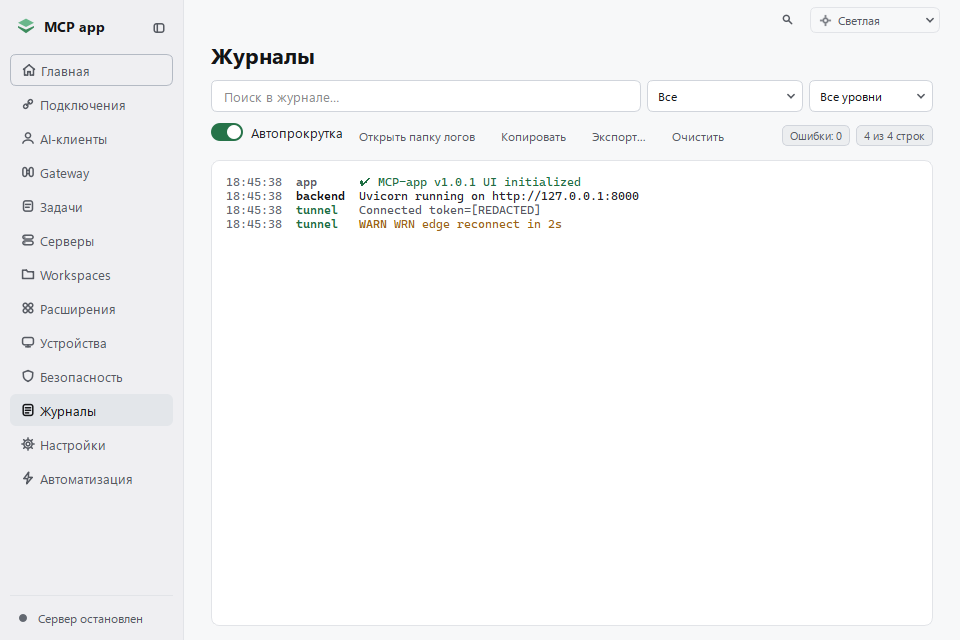
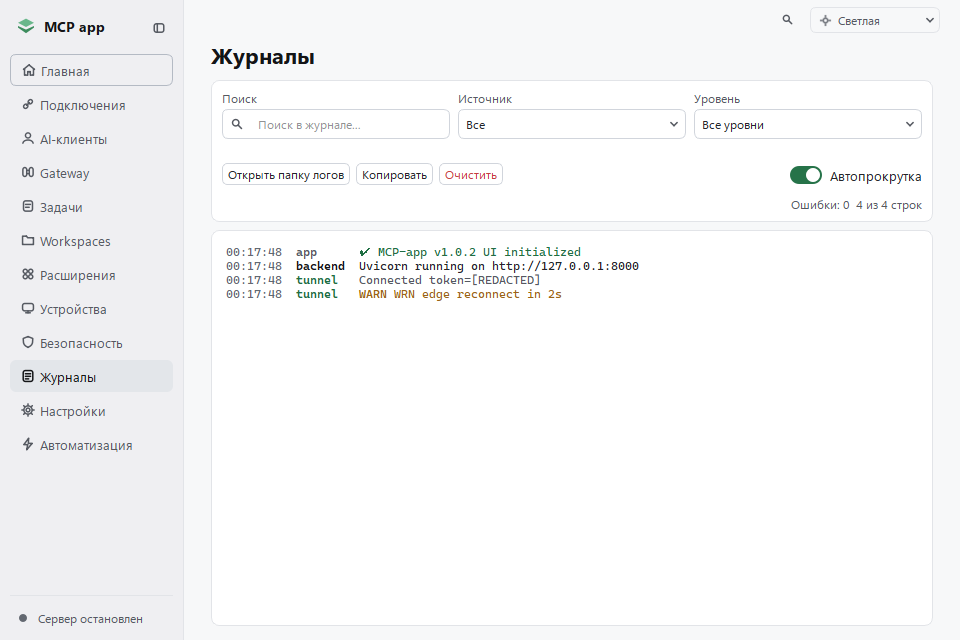
docs(n03): update Workspaces, Server Manager, tool reference, UI docs, and PROGRESS

diff --git a/PROGRESS.md b/PROGRESS.md
@@ -770,3 +770,36 @@
 - Production auto-install/boot-recovery BLOCKED; installed без доверенного rollback BLOCKED. Отдельная приёмка signing, криптографической проверки восстанавливаемого portable-пакета и power-loss recovery обязательна до включения. См. docs/auto-update.md.
 - P2 ResourceWarning mcp_audit.log остаётся. Другие NOT_RUN не переименованы в PASS.
 - N03: feat/n03-workspace-servers; текущий промт ANTIGRAVITY_PROMPT.md; реализация не начата. Версия 1.0.2, PR #32 без изменений, релиз не опубликован.
+
+## N03 — Интеграция Server Manager в Workspaces (`VERIFIED`, ожидает независимой приёмки ChatGPT / merge PR, 2026-11-28)
+- **Базовый коммит**: подготовительный `9c4363e` на ветке `feat/n03-workspace-servers` (базовый merge-коммит `main`: `4b9bedb`, PR #38). Версия `1.0.2` не менялась, `app/updater/trust.py` и N02 production gates (`PRODUCTION_TRUST_ROOTS = ()`, `PRODUCTION_PUBLISHER_THUMBPRINTS = ()`, auto-install/boot-recovery `BLOCKED`) не ослаблены и не затронуты.
+- **Архитектура и единый источник истины**:
+  - Сохранены единый `ServerConfigStore` (`%APPDATA%\MCPApp\servers\managed_servers.json`), `ServerManager` (`backend/servers/manager.py`), стабильные ID профилей серверов, `cwd`, `argv`, `env`, DPAPI `SecretStore`-ссылки (`secret://servers/...`), ACL, `min_profile`, `allowed_clients`, `depends_on`, readiness probes, `controlled`/`independent` семантика и OAuth-инструменты.
+  - Создан координатор [`backend/workspaces/server_links.py`](backend/workspaces/server_links.py) (`WorkspaceServerCoordinator`, `WorkspaceServersSnapshot`), использующий существующее поле `WorkspaceProfile.linked_servers` (схема v2, дедупликация, `SERVER_LINK_RE`) без создания параллельного реестра или копирования секретов. Поддержаны связи `1:N` (один проект → несколько серверов) и `N:1` (один сервер в нескольких проектах).
+  - В [`app/core/atomic_io.py`](app/core/atomic_io.py) добавлена межпроцессная и реентерабельная межпоточная блокировка `cross_process_lock`, применённая во всех мутациях [`backend/workspaces/store.py`](backend/workspaces/store.py) и [`backend/servers/store.py`](backend/servers/store.py) (`load_profiles(strict=True)` перед `upsert_profile`/`delete_profile`).
+- **Миграция v1→v2 и сохранность данных**:
+  - `WorkspaceServerCoordinator.ensure_migrated()` идемпотентно мигрирует legacy v1-конфиги серверов и v1-реестр Workspaces в v2 с сохранением `.json.v1.bak` и user-private ACL, **никогда не угадывает** привязки по `cwd` или имени, не создаёт фиктивный общий workspace и не запускает/не останавливает процессы при миграции.
+  - Повреждённый JSON вызывает `ValueError` fail-closed без перезаписи файлов на диске; в GUI выводится предупреждающий баннер `corrupt_banner`.
+  - Отвязка сервера (`unlink_server`) и удаление workspace (`delete_workspace_preserving_servers`) не останавливают и не удаляют серверы; переименование ID сервера (`rename_server` / `RenameServerDialog`) разрешено только для остановленного сервера и синхронно переносит `SecretStore`-ключи, `depends_on` и `WorkspaceProfile.linked_servers`.
+- **Матрица прав (`Global OAuth ∩ Workspace ∩ Server ∩ Task`) и задачи**:
+  - При `workspace_authorizer` на `ServerManager` и `_server_auth_rechecker` на `backend/server.py` вызов к привязанному серверу проверяет пересечение прав клиента во всех задействованных слоях:
+    - Явный `workspace_id` на `server_list`/`server_start`/`server_stop`/`server_restart`/`server_status`/`server_logs`/`server_metrics`/`server_health`: сервер обязан входить в `linked_servers` этого проекта, а клиент — иметь `read` (для чтения) или `read + execute` (для `start`/`stop`/`restart`), помимо `min_profile`/`allowed_clients` сервера.
+    - Прямой вызов без `workspace_id` (`""`): для непривязанного сервера работают глобальный OAuth + права `ServerProfile`; для привязанного сервера требуется допуск хотя бы в одном привязанном `WorkspaceProfile`.
+    - Confused-deputy защита при запуске `depends_on`: перед запуском любого процесса `ServerManager.start_server` (`_authorize_start_order`) проверяет права вызывающего клиента на все зависимости и их привязанные проекты.
+  - [`backend/tasks/store.py`](backend/tasks/store.py) дополнен `create_running_task()` (исключает гонку с асинхронной очередью `TaskManager._dispatch_loop`), а [`backend/workspaces/manager.py`](backend/workspaces/manager.py) записывает реальные `TaskRecord`, артефакты `result.json`, `WorkspaceProfile.linked_tasks` и возвращает `task_id` в `workspace_run_task` + `linked_servers_status`/`missing_linked_servers` в `workspace_info`.
+- **Консолидация UI и удаление вкладки «Серверы»**:
+  - [`app/ui/pages/workspaces_page.py`](app/ui/pages/workspaces_page.py) объединяет `collection_tabs` (**Проекты** + **Непривязанные серверы**) и 5 вкладок деталей (**Файлы проекта**, **Статус Git, поиск и вывод задач**, **Серверы**, **Логи сервера**, **Метрики и здоровье**), неблокирующие фоновые операции (`start`/`stop`/`restart`/`health`/задачи проекта + `wait_for_pending_ops()`), отметку отсутствующих ссылок (`missing in registry`) с безопасной отвязкой и переименование профиля сервера.
+  - Общие диалоги и рендер-таблицы вынесены без дублирования в [`app/ui/pages/servers_page.py`](app/ui/pages/servers_page.py) (`ServerProfileDialog`, `TemplateWizardDialog` с `default_cwd`, `RenameServerDialog`, `LinkServerDialog`, `populate_server_rows`, `format_server_details`, `fetch_server_logs_text`).
+  - В [`app/ui/main_window.py`](app/ui/main_window.py), [`app/ui/components/sidebar.py`](app/ui/components/sidebar.py), [`app/ui/pages/__init__.py`](app/ui/pages/__init__.py), [`app/gui.py`](app/gui.py) и [`app/selftest.py`](app/selftest.py) удалён отдельный пункт навигации `"servers"` (12 разделов, горячие клавиши `Ctrl+1..Ctrl+9`), добавлены редиректы `_LEGACY_PAGE_REDIRECTS` (`"servers"`/`"server_manager"`/`"managed_servers"` → `"workspaces"`) и маршрутизация Command Palette.
+  - Обновлены локализации RU/EN (`813` ключей с полным паритетом в [`app/ui/i18n.py`](app/ui/i18n.py)), документация (`docs/workspaces.md`, `docs/server-manager.md`, `docs/tool-reference.md`, `docs/ui-design-system.md`, `README.md`, `ROADMAP.md`) и скриншоты (`docs/screenshots/workspaces-dark.png`, `workspaces-light.png` при `1366×768`).
+- **Локальные проверки N03 (Python `3.13.15`, `QT_QPA_PLATFORM=offscreen`)**:
+  - TDD: backend [`tests/unit/test_n03_workspace_servers_migration_and_permissions.py`](tests/unit/test_n03_workspace_servers_migration_and_permissions.py) (`RED` → `GREEN`: **5/5 PASS**), E2E/GUI [`tests/integration/test_n03_workspace_servers_e2e.py`](tests/integration/test_n03_workspace_servers_e2e.py) (`RED` → `GREEN`: **3/3 PASS**, `3.979s`).
+  - `compileall -q app backend tests tools`: **PASS**.
+  - `ruff check app backend tests tools`: **PASS** (`0` ошибок).
+  - `mypy` (`win32`, 84 файла) и `mypy --platform linux` (`84` файла): **PASS** (`0` ошибок).
+  - `tools/check_licenses.py`: **PASS** (`38/38` зависимостей).
+  - `pip_audit -r requirements.lock --no-deps --disable-pip`: **PASS** (`No known vulnerabilities found`).
+  - Полный прогон тестов: `tests/unit` **257/257 PASS** (`20.506s`), `tests/integration` **100/100 PASS** (`57.055s`), `tests/e2e` **2/2 PASS** (`8.332s`) — итого **359/359 PASS**.
+  - `tools/capture_ui_screenshots.py`: **PASS** (`DPI check scale=1.0..2.0: OK`, 15 скриншотов переснято).
[1 lines of base64/hex data omitted]
+- **Остающиеся `BLOCKED` / `NOT_RUN`**: локальный `ISCC.exe` (**NOT_RUN** — проверяется в CI `windows-package`); живой внешний туннельный smoke-тест **NOT_RUN** в рамках N03; N02 production gates (`PRODUCTION_TRUST_ROOTS = ()`, `PRODUCTION_PUBLISHER_THUMBPRINTS = ()`, auto-install/boot-recovery **BLOCKED** `MISSING_TRUST_ROOTS` / `NO_ROLLBACK_CONTRACT`) сохранены без изменений.

diff --git a/docs/tool-reference.md b/docs/tool-reference.md
@@ -9,8 +9,8 @@ All built-in MCP tools are centrally defined in `backend/tool_registry.py` (`DEF
 | **OAuth Exec** | `oauth_ssh_command` | `allowlist` | Allowlist enforces exact host + command; `full` permits arbitrary SSH commands on approved targets. |
 | **OAuth Exec** | `oauth_managed_server` | `full` | Direct legacy managed-server lifecycle control. |
 | **Tasks** | `task_start`, `task_status`, `task_list`, `task_output`, `task_result`, `task_cancel`, `task_restart`, `task_artifacts` | `allowlist` | Async job execution with profile-aware default timeouts (`15s`/`12s` in `allowlist`, `60s` in `full`), 13 structured `TASK_*` MCP errors, spool ring buffers, disk quotas, idempotency keys, inactive purge, and live OAuth revoke checks. |
-| **Servers** | `server_list`, `server_start`, `server_stop`, `server_restart`, `server_status`, `server_logs`, `server_metrics`, `server_health` | `allowlist` | Local service manager with templates (`FastAPI`, `Flask`, `Node`, `Docker`), dependency DAGs, readiness probes, and redacted logs. |
-| **Workspaces** | `workspace_list`, `workspace_info`, `workspace_tree`, `workspace_read_file`, `workspace_write_file`, `workspace_search`, `workspace_apply_patch`, `workspace_move_file`, `workspace_delete_file`, `workspace_diff`, `workspace_history`, `workspace_run_task` | `allowlist` | Guarded per-project read/write/delete/execute/git permissions, canonical/junction/ADS protections, hash concurrency preconditions, and rollback history. |
+| **Servers** | `server_list`, `server_start`, `server_stop`, `server_restart`, `server_status`, `server_logs`, `server_metrics`, `server_health` | `allowlist` | Local service manager with templates (`FastAPI`, `Flask`, `Node`, `Docker`), dependency DAGs, readiness probes, redacted logs, optional `workspace_id` context scoping, and cross-layer workspace authorization. Payloads include `linked_workspaces`. |
+| **Workspaces** | `workspace_list`, `workspace_info`, `workspace_tree`, `workspace_read_file`, `workspace_write_file`, `workspace_search`, `workspace_apply_patch`, `workspace_move_file`, `workspace_delete_file`, `workspace_diff`, `workspace_history`, `workspace_run_task` | `allowlist` | Guarded per-project read/write/delete/execute/git permissions, canonical/junction/ADS protections, hash concurrency preconditions, rollback history, `linked_servers_status` / `missing_linked_servers` in `workspace_info`, and `TaskStore` `task_id` tracking in `workspace_run_task`. |
 | **Git** | `git_status`, `git_diff`, `git_log`, `git_branches`, `git_checkout`, `git_commit` | `allowlist` | Non-shell Git operations respecting `trust_hooks=False` by default. |
 | **Computer Use** | `desktop_screenshot`, `desktop_list_windows`, `desktop_list_monitors`, `desktop_get_ui_tree`, `desktop_wait_for_element` *(view)*; `desktop_open_app`, `desktop_close_window`, `desktop_focus_window`, `desktop_click`, `desktop_type`, `desktop_keypress`, `desktop_scroll`, `desktop_drag` *(control)* | `allowlist` | Dynamically gated by `DesktopPolicy`: hidden when `enabled=False`, split into `allow_screen_capture` (5 view tools) and `allow_input_control` (8 control tools), never exposed in `safe`. UAC/UIPI/locked-desktop fail-closed; screenshots are memory-only `ImageContent`. |
 | **Extensions** | `extension_list`, `extension_info`, `extension_call_tool`, `extension_logs` | `allowlist` | Inspect/call approved out-of-process extensions under client & mutating-tool approvals. |

diff --git a/docs/ui-design-system.md b/docs/ui-design-system.md
@@ -28,13 +28,13 @@
   - `app/ui/theme.py` — `ThemeManager`, генерация `@1x/@2x` SVG/QPainter переключателей и QSS.
   - `app/ui/i18n.py` — живая локализация **RU / EN** с контролем паритета ключей.
   - `app/ui/components/` — `Sidebar`, `CommandPaletteDialog`, `DataTable`, `LogViewerWidget`, `ToastManager`, `Card`, `Badge`, `EmptyState`, `ErrorBanner`.
-  - `app/ui/pages/` — активные страницы (`HomePage`, `ConnectionsPage`, `ClientsPage`, `SecurityPage`, `LogsPage`, `SettingsPage`) и честные заглушки дорожной карты `PlannedPage` (`v0.9.2–v0.9.9`).
+  - `app/ui/pages/` — модульные страницы **12 основных разделов** (`HomePage`, `ConnectionsPage`, `ClientsPage`, `GatewayPage`, `TasksPage`, единый `WorkspacesPage` с привязанными/непривязанными серверами, `ExtensionsPage`, `DevicesPage`, `SecurityPage`, `LogsPage`, `SettingsPage`, `AutomationPage`).
 
 ## Горячие клавиши и доступность
 
-- `Ctrl+K` — Command Palette (быстрый поиск страниц, переключение темы/языка, запуск/остановка Engine).
+- `Ctrl+K` — Command Palette (быстрый поиск страниц, включая переход в Workspaces по запросам `"servers"`/`"серверы"`, переключение темы/языка, запуск/остановка Engine).
 - `Ctrl+B` — свернуть/развернуть боковую панель.
-- `Ctrl+1` … `Ctrl+6` — переход по активным разделам (`Главная`, `Подключения`, `AI-клиенты`, `Безопасность`, `Журналы`, `Настройки`).
+- `Ctrl+1` … `Ctrl+9` — переход по активным разделам (`Главная`, `Подключения`, `AI-клиенты`, `Gateway`, `Задачи`, `Workspaces`, `Расширения`, `Безопасность`, `Журналы`).
 - `Ctrl+Q` — выход из приложения.
 - Настройки темы, языка, ширины боковой панели и геометрии окна сохраняются в `%APPDATA%\MCPApp\settings.json`; на Windows настроено `PassThrough` HiDPI-масштабирование (проверено при `100%`, `125%`, `150%`, `200%`).
 
@@ -47,3 +47,7 @@
 ![Подключения — тёмная тема (EN)](screenshots/connections-dark.png)
 
 ![Журналы — светлая тема (RU)](screenshots/logs-light.png)
+
+![Workspaces и серверы — тёмная тема (RU)](screenshots/workspaces-dark.png)
+
+![Workspaces и серверы — светлая тема (RU)](screenshots/workspaces-light.png)

diff --git a/docs/workspaces.md b/docs/workspaces.md
@@ -1,6 +1,17 @@
-# Workspaces (`v0.9.5`)
+# Workspaces & Managed Servers (`v1.0.2` / N03)
 
-MCP-app Workspaces provides a guarded per-project registry (`%APPDATA%\MCPApp\workspaces\workspaces.json`) for browsing, searching, editing, testing, and running safe Git workflows on owner-registered local directories.
+MCP-app Workspaces provides the single unified UI and project registry (`%APPDATA%\MCPApp\workspaces\workspaces.json`, schema v2) combining guarded per-project file/Git/task operations with local Server Manager lifecycle control (`%APPDATA%\MCPApp\servers\managed_servers.json`).
+
+## Single Authoritative Server Linkage (`WorkspaceProfile.linked_servers`)
+- **1:N & N:1 Links Without Duplication**: Workspaces reference existing `ServerProfile` IDs via `WorkspaceProfile.linked_servers` (`WorkspaceServerCoordinator` in `backend/workspaces/server_links.py`) without creating a parallel server registry or duplicating DPAPI secrets.
+- **Unlinked Servers Section**: All unlinked, ambiguous, or standalone servers remain visible and manageable in the **Unlinked Servers** tab inside Workspaces.
+- **Non-Destructive Unlink & Delete**: Unlinking a server or removing a workspace entry only updates the workspace registry (`workspaces.json`) and workspace secrets — it **never** stops or deletes managed server profiles or detached `independent` processes.
+- **Lossless v1→v2 Migration & Fail-Closed Corruption Handling**: Migrating v1.0.2 configs creates `.json.v1.bak` backups with user-private ACLs, preserves all IDs/secrets/permissions, and **never** guesses workspace-to-server associations by `cwd` or name. Corrupt JSON fails closed with an error banner without overwriting disk files.
+
+## Cross-Layer Permissions & Task History
+- **Fail-Closed Intersection**: Operating on a linked server intersects **Global OAuth Profile ∩ Workspace Permissions ∩ ServerProfile (`min_profile`, `allowed_clients`) ∩ Task Permissions**.
+- **Pre-Launch Confused-Deputy Guard**: Starting a server that declares `depends_on` validates caller authorization on every dependency workspace/server before launching any process.
+- **Workspace Task Manager Audit**: Running named workspace commands (`workspace_run_task` or GUI **Run Task**) records real `TaskRecord` entries in `TaskStore`, stores `result.json` artifacts, and appends `task_id` to `WorkspaceProfile.linked_tasks`.
 
 ## Granular Per-Project & Per-Client Permissions
 Each workspace defines default permissions (`read`, `write`, `delete`, `execute`, `git`), defaulting to read-only (`read=True`, everything else `False`), plus optional `client_permissions[client_id]` overrides, `allowed_clients`, and `min_profile`.

diff --git a/docs/server-manager.md b/docs/server-manager.md
@@ -1,6 +1,6 @@
-# Server Manager (`v0.9.4`)
+# Server Manager (`v1.0.2` / integrated in Workspaces)
 
-MCP-app Server Manager manages owner-configured local development servers and background services (`%APPDATA%\MCPApp\servers\managed_servers.json`) with encrypted secrets, health probes, metrics, dependency ordering, and bounded logs.
+MCP-app Server Manager manages owner-configured local development servers and background services (`%APPDATA%\MCPApp\servers\managed_servers.json`) with encrypted secrets, health probes, metrics, dependency ordering, and bounded logs. Since stage **N03**, Server Manager UI lives directly inside **Workspaces** (Linked Servers per workspace + **Unlinked Servers** tab); the standalone **Servers** sidebar tab was removed while redirecting legacy `"servers"` / `"server_manager"` / `"managed_servers"` targets to Workspaces.
 
 ## Key Capabilities
 - **Lossless Migration**: Reads legacy v1 `managed_servers.json` (`{name: {argv, cwd, lifecycle}}`) seamlessly and migrates to schema v2 without data loss or privilege widening (migrated entries default to `min_profile="full"`).
@@ -19,4 +19,5 @@ MCP-app Server Manager manages owner-configured local development servers and ba
   - Restart policies (`never`, `on-failure`, `always`) use bounded exponential backoff.
 - **MCP Tools (`backend/server.py`, `backend/tool_registry.py`)**:
   - `server_list`, `server_start`, `server_stop`, `server_restart`, `server_status`, `server_logs`, `server_metrics`, `server_health`, plus compatible `oauth_managed_server`.
-  - Per-server `min_profile` (`allowlist` | `full`), `allowed_clients`, live re-authorization before restarts, and optional `TaskManager` linkage (`linked_task_id` / `run_pre_start_task`).
+  - All `server_*` tools accept an optional `workspace_id: str = ""` context parameter and enforce cross-layer workspace permissions (`WorkspaceServerCoordinator.authorize_server_operation`) and confused-deputy checks on `depends_on` before starting processes.
+  - Per-server `min_profile` (`allowlist` | `full`), `allowed_clients`, live re-authorization before restarts, and optional `TaskManager` linkage (`linked_task_id` / `run_pre_start_task`), plus safe stopped-server ID renaming (`RenameServerDialog` / `rename_server`) syncing `depends_on`, SecretStore refs, and `linked_servers`.

diff --git a/ROADMAP.md b/ROADMAP.md
@@ -7,7 +7,7 @@
 | N00 | Подготовка окружения и инструкций | v1.0.2 | VERIFIED (подготовка и проверка AG завершены; остаточное ограничение: `sonarqube-cloud` MCP требует ручного OAuth, используется SonarCloud CI/API) |
 | N01 | Baseline-аудит и точечные исправления P0/P1 | N00 | MERGED (PR #37, 32086cc; независимые 10/10 lifecycle tests) |
 | N02 | Безопасное автообновление | N01 | MERGED (PR #38, 4b9bedb; production auto-install/boot-recovery BLOCKED, отдельный gate docs/auto-update.md) |
-| N03 | Server Manager внутри Workspaces; убрать отдельную навигацию «Серверы» | N01 | TODO (подготовка, реализация только по разрешению владельца) |
+| N03 | Server Manager внутри Workspaces; убрать отдельную навигацию «Серверы» | N01 | VERIFIED (ветка `feat/n03-workspace-servers`, ожидает независимой приёмки ChatGPT / merge PR; production gates N02 сохранены) |
 | N04 | Мастер добавления Workspaces | N03 | TODO |
 | N05 | Мастер SSH-подключения устройств | N01 | TODO |
 | N06 | Центр безопасности | N01 | TODO |
